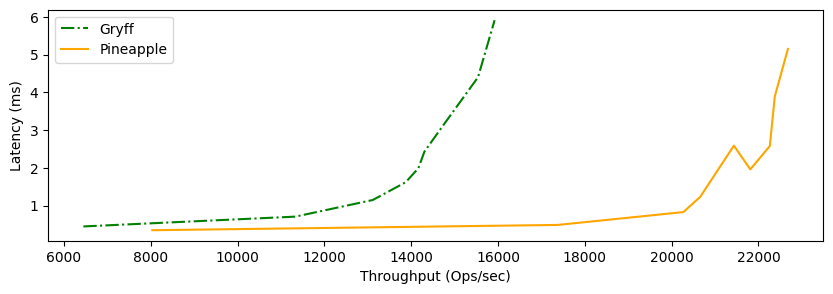
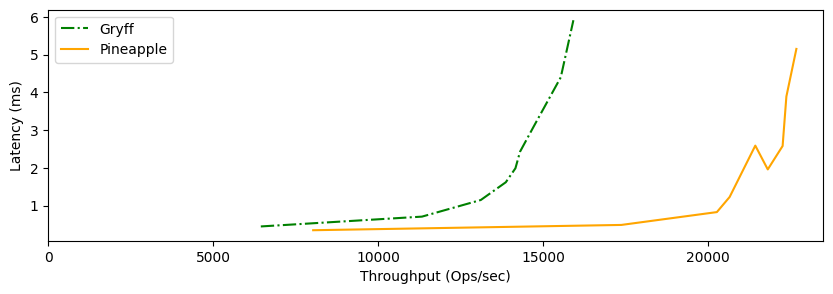
change x

diff --git a/line.py b/line.py
@@ -21,6 +21,8 @@ ax.plot(x1,y1, color='orange', linestyle="solid", label="Pineapple")
 ax.set_ylabel("Latency (ms)")
 ax.set_xlabel("Throughput (Ops/sec)")
 
+ax.set_xlim(left=0)
+
 ax.legend(('Gryff','Pineapple'))
 
 fig.savefig("latency-tput.png", bbox_inches="tight")
